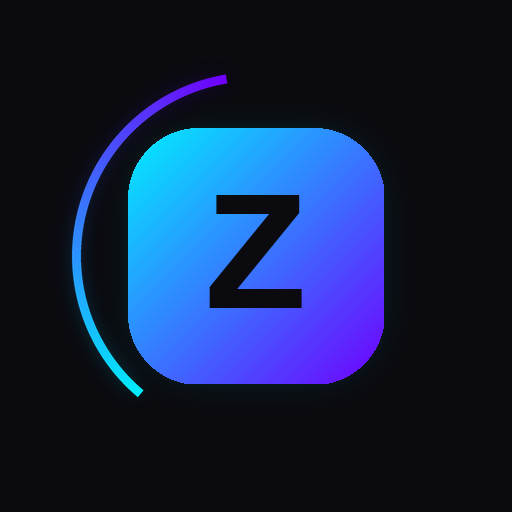
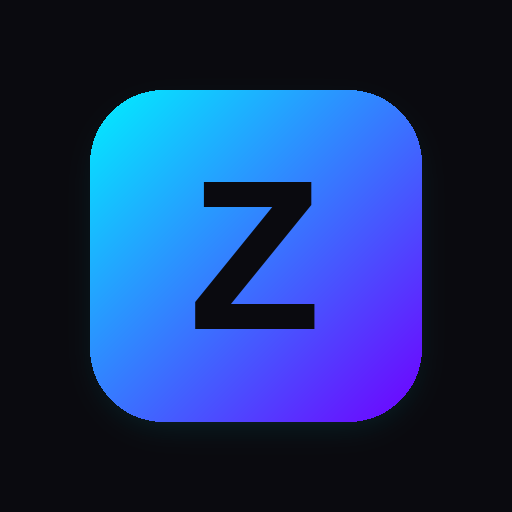
Zepo splash: transicion seamless nativo->HTML
- icons: regenerados sin anillo (solo logo Z gradiente) para que el splash nativo del SO no muestre el ring
- manifest: bump iconos ?v=11
- HTML splash: anade 'Zepo' debajo del logo (matches subtitulo nativo Android), ring entra con opacity 0 y fade-in delayed 0.35s
- sw.js: zepo-v24

Resultado: SO muestra logo+'Zepo' -> HTML carga identico -> 350ms despues aparece ring -> on auth ready chip anima

Changed region(s): [[0.125, 0.125, 0.8438, 0.8438], [0.375, 0.3438, 0.625, 0.5312], [0.375, 0.5312, 0.625, 0.6562]]

diff --git a/index.html b/index.html
@@ -869,9 +869,11 @@
       background: conic-gradient(from 0deg, transparent 0deg, transparent 220deg, #00F0FF 285deg, #7000FF 350deg, transparent 360deg);
       -webkit-mask: radial-gradient(circle, transparent 50px, #000 52px);
               mask: radial-gradient(circle, transparent 50px, #000 52px);
-      animation: cd-spin 1.1s linear infinite;
+      animation: cd-spin 1.1s linear infinite, zepo-ring-fadein 0.35s ease-out 0.35s forwards;
       filter: drop-shadow(0 0 12px rgba(0, 240, 255, 0.35));
+      opacity: 0;
     }
+    @keyframes zepo-ring-fadein { to { opacity: 1; } }
     .zepo-splash-chip {
       position: absolute; top: 50%; left: 50%;
       transform: translate(-50%, -50%);
@@ -912,11 +914,11 @@
       box-shadow: 0 8px 32px rgba(0, 240, 255, 0.18);
     }
     .zepo-splash-name {
-      font-size: 13px;
+      font-size: 18px;
       font-weight: 700;
-      letter-spacing: 0.5px;
-      color: #7c7c8a;
-      text-transform: uppercase;
+      letter-spacing: 0.2px;
+      color: #FFFFFF;
+      margin-top: 4px;
     }
 
     /* ─── Bottom input bar (Añadir registro) ─── */
@@ -2657,6 +2659,7 @@
       <div class="zepo-splash-ring"></div>
       <div class="zepo-splash-logo">Z</div>
     </div>
+    <div class="zepo-splash-name">Zepo</div>
   </div>
 
   <!-- ░░░ AUTH: LOGIN / SIGNUP ░░░ -->

diff --git a/sw.js b/sw.js
@@ -1,4 +1,4 @@
-const CACHE_NAME = 'zepo-v23';
+const CACHE_NAME = 'zepo-v24';
 const ASSETS = [
   './manifest.json',
   'https://cdn.jsdelivr.net/npm/@supabase/supabase-js@2/dist/umd/supabase.min.js',
